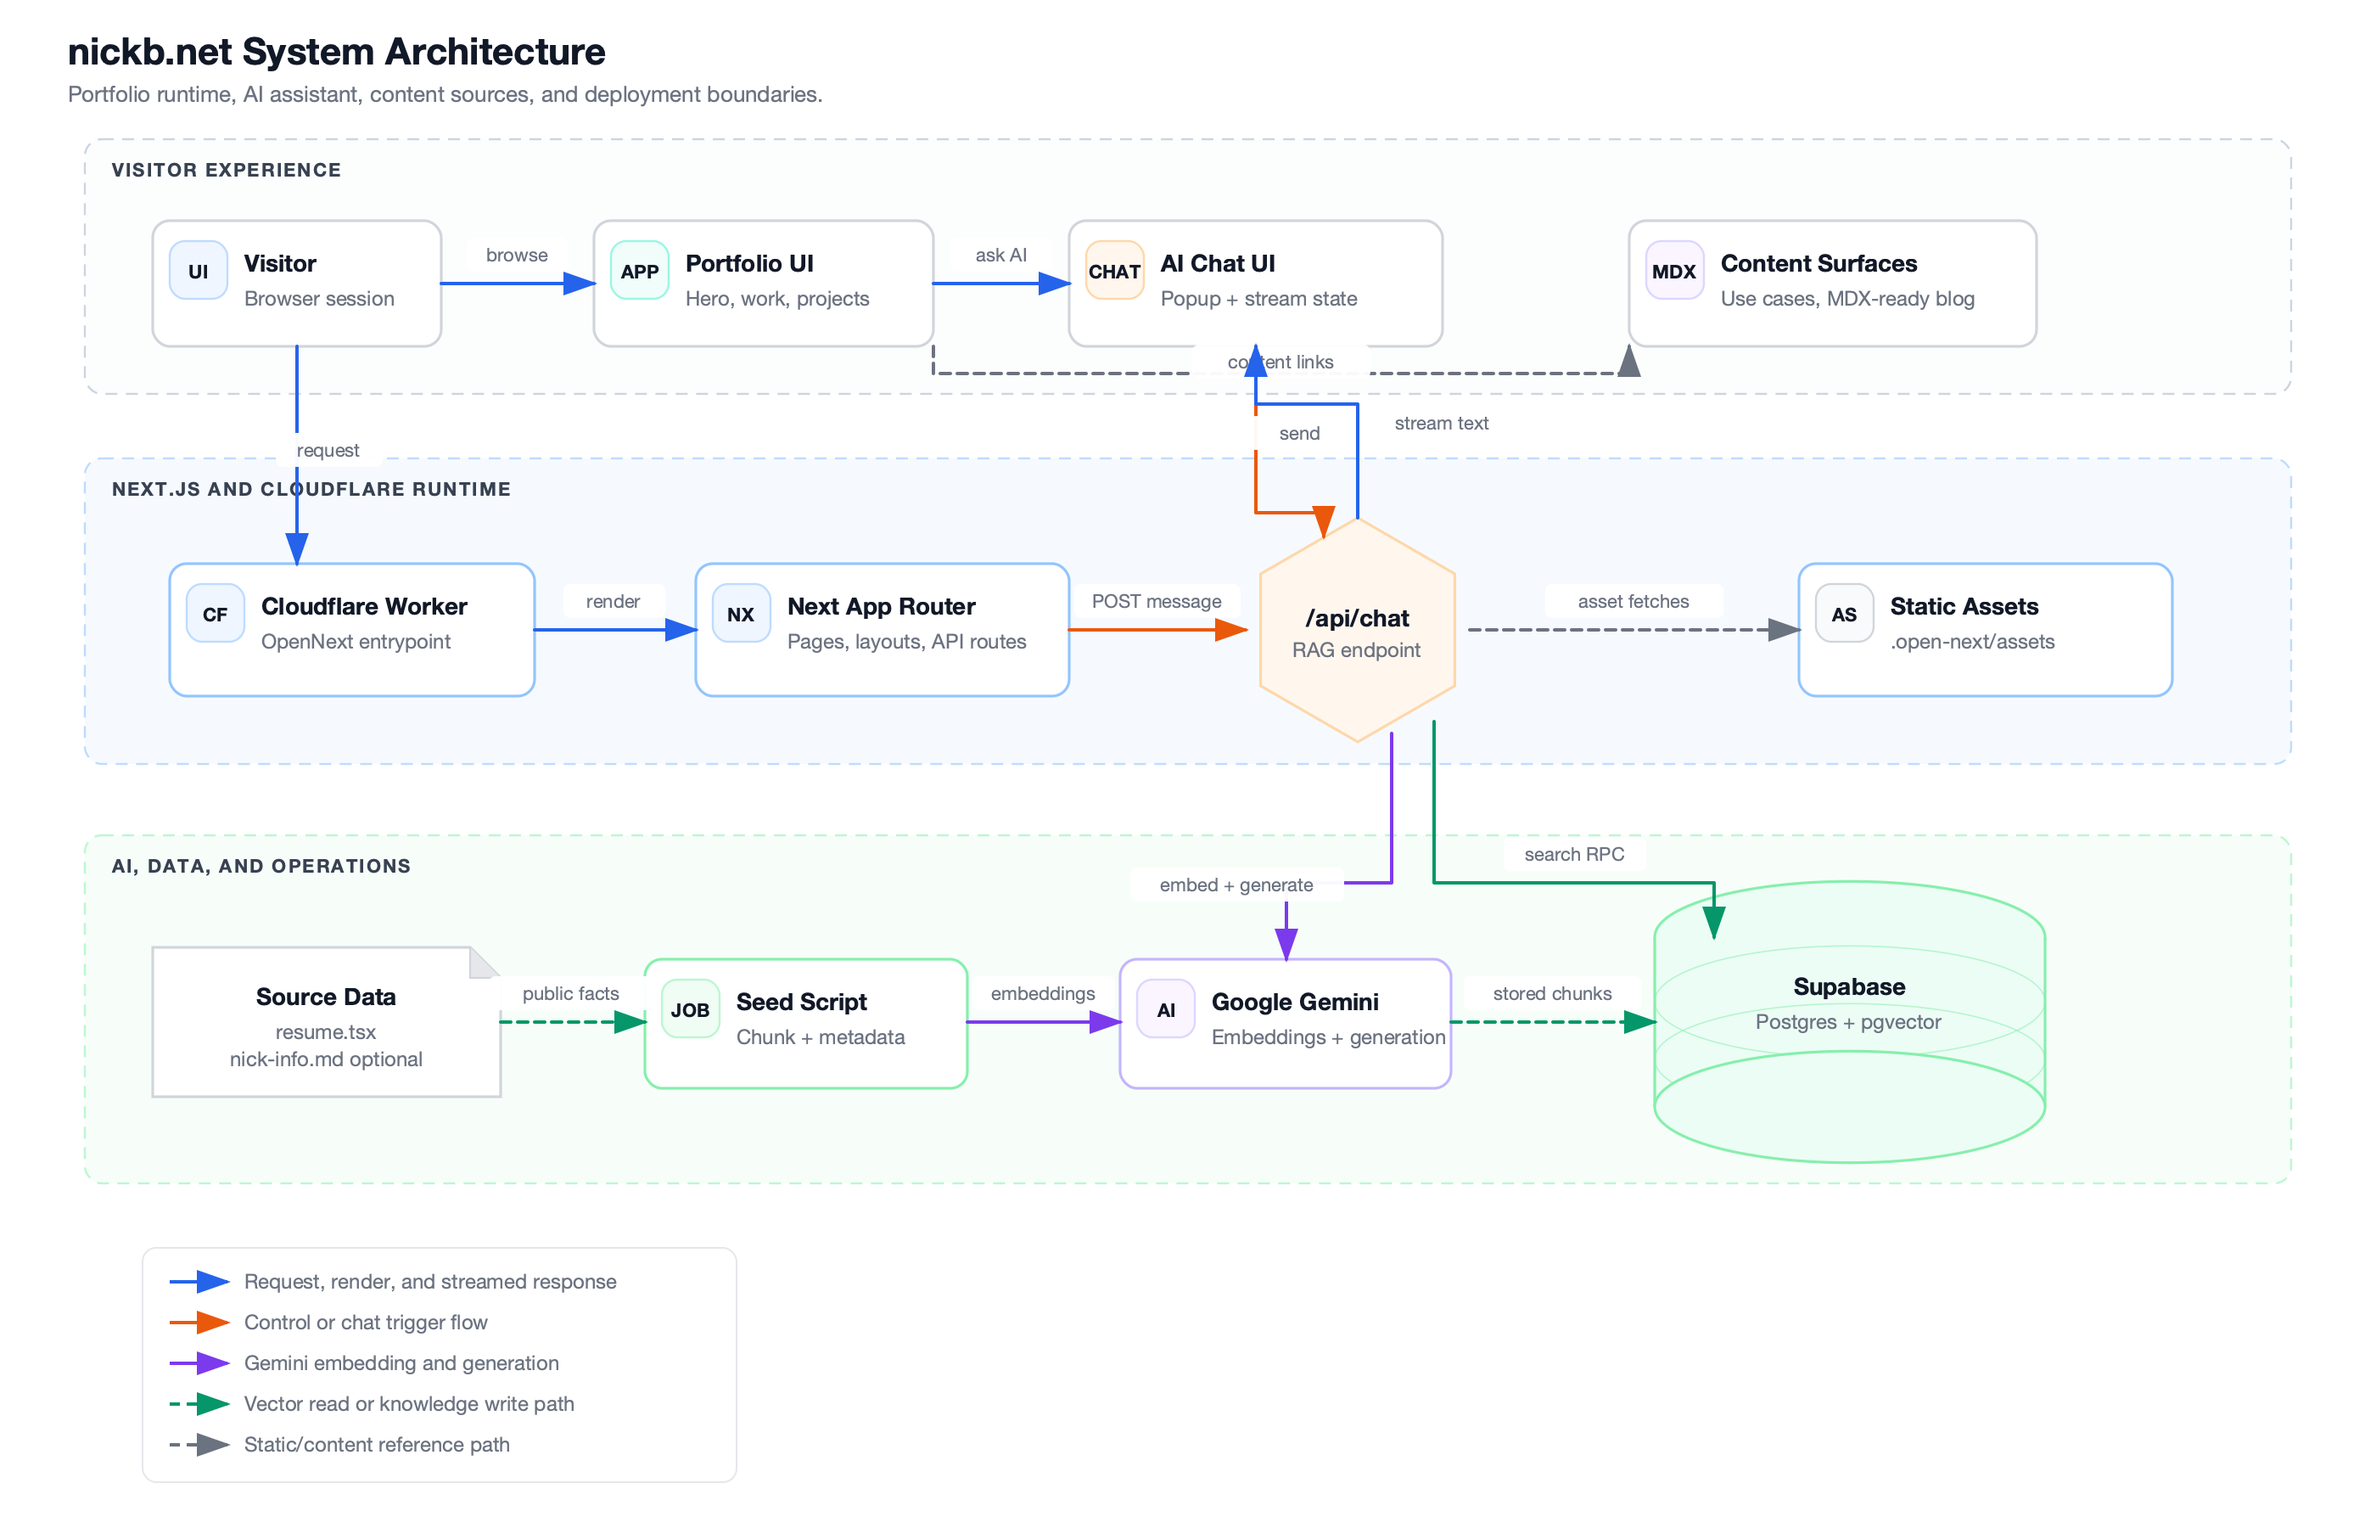
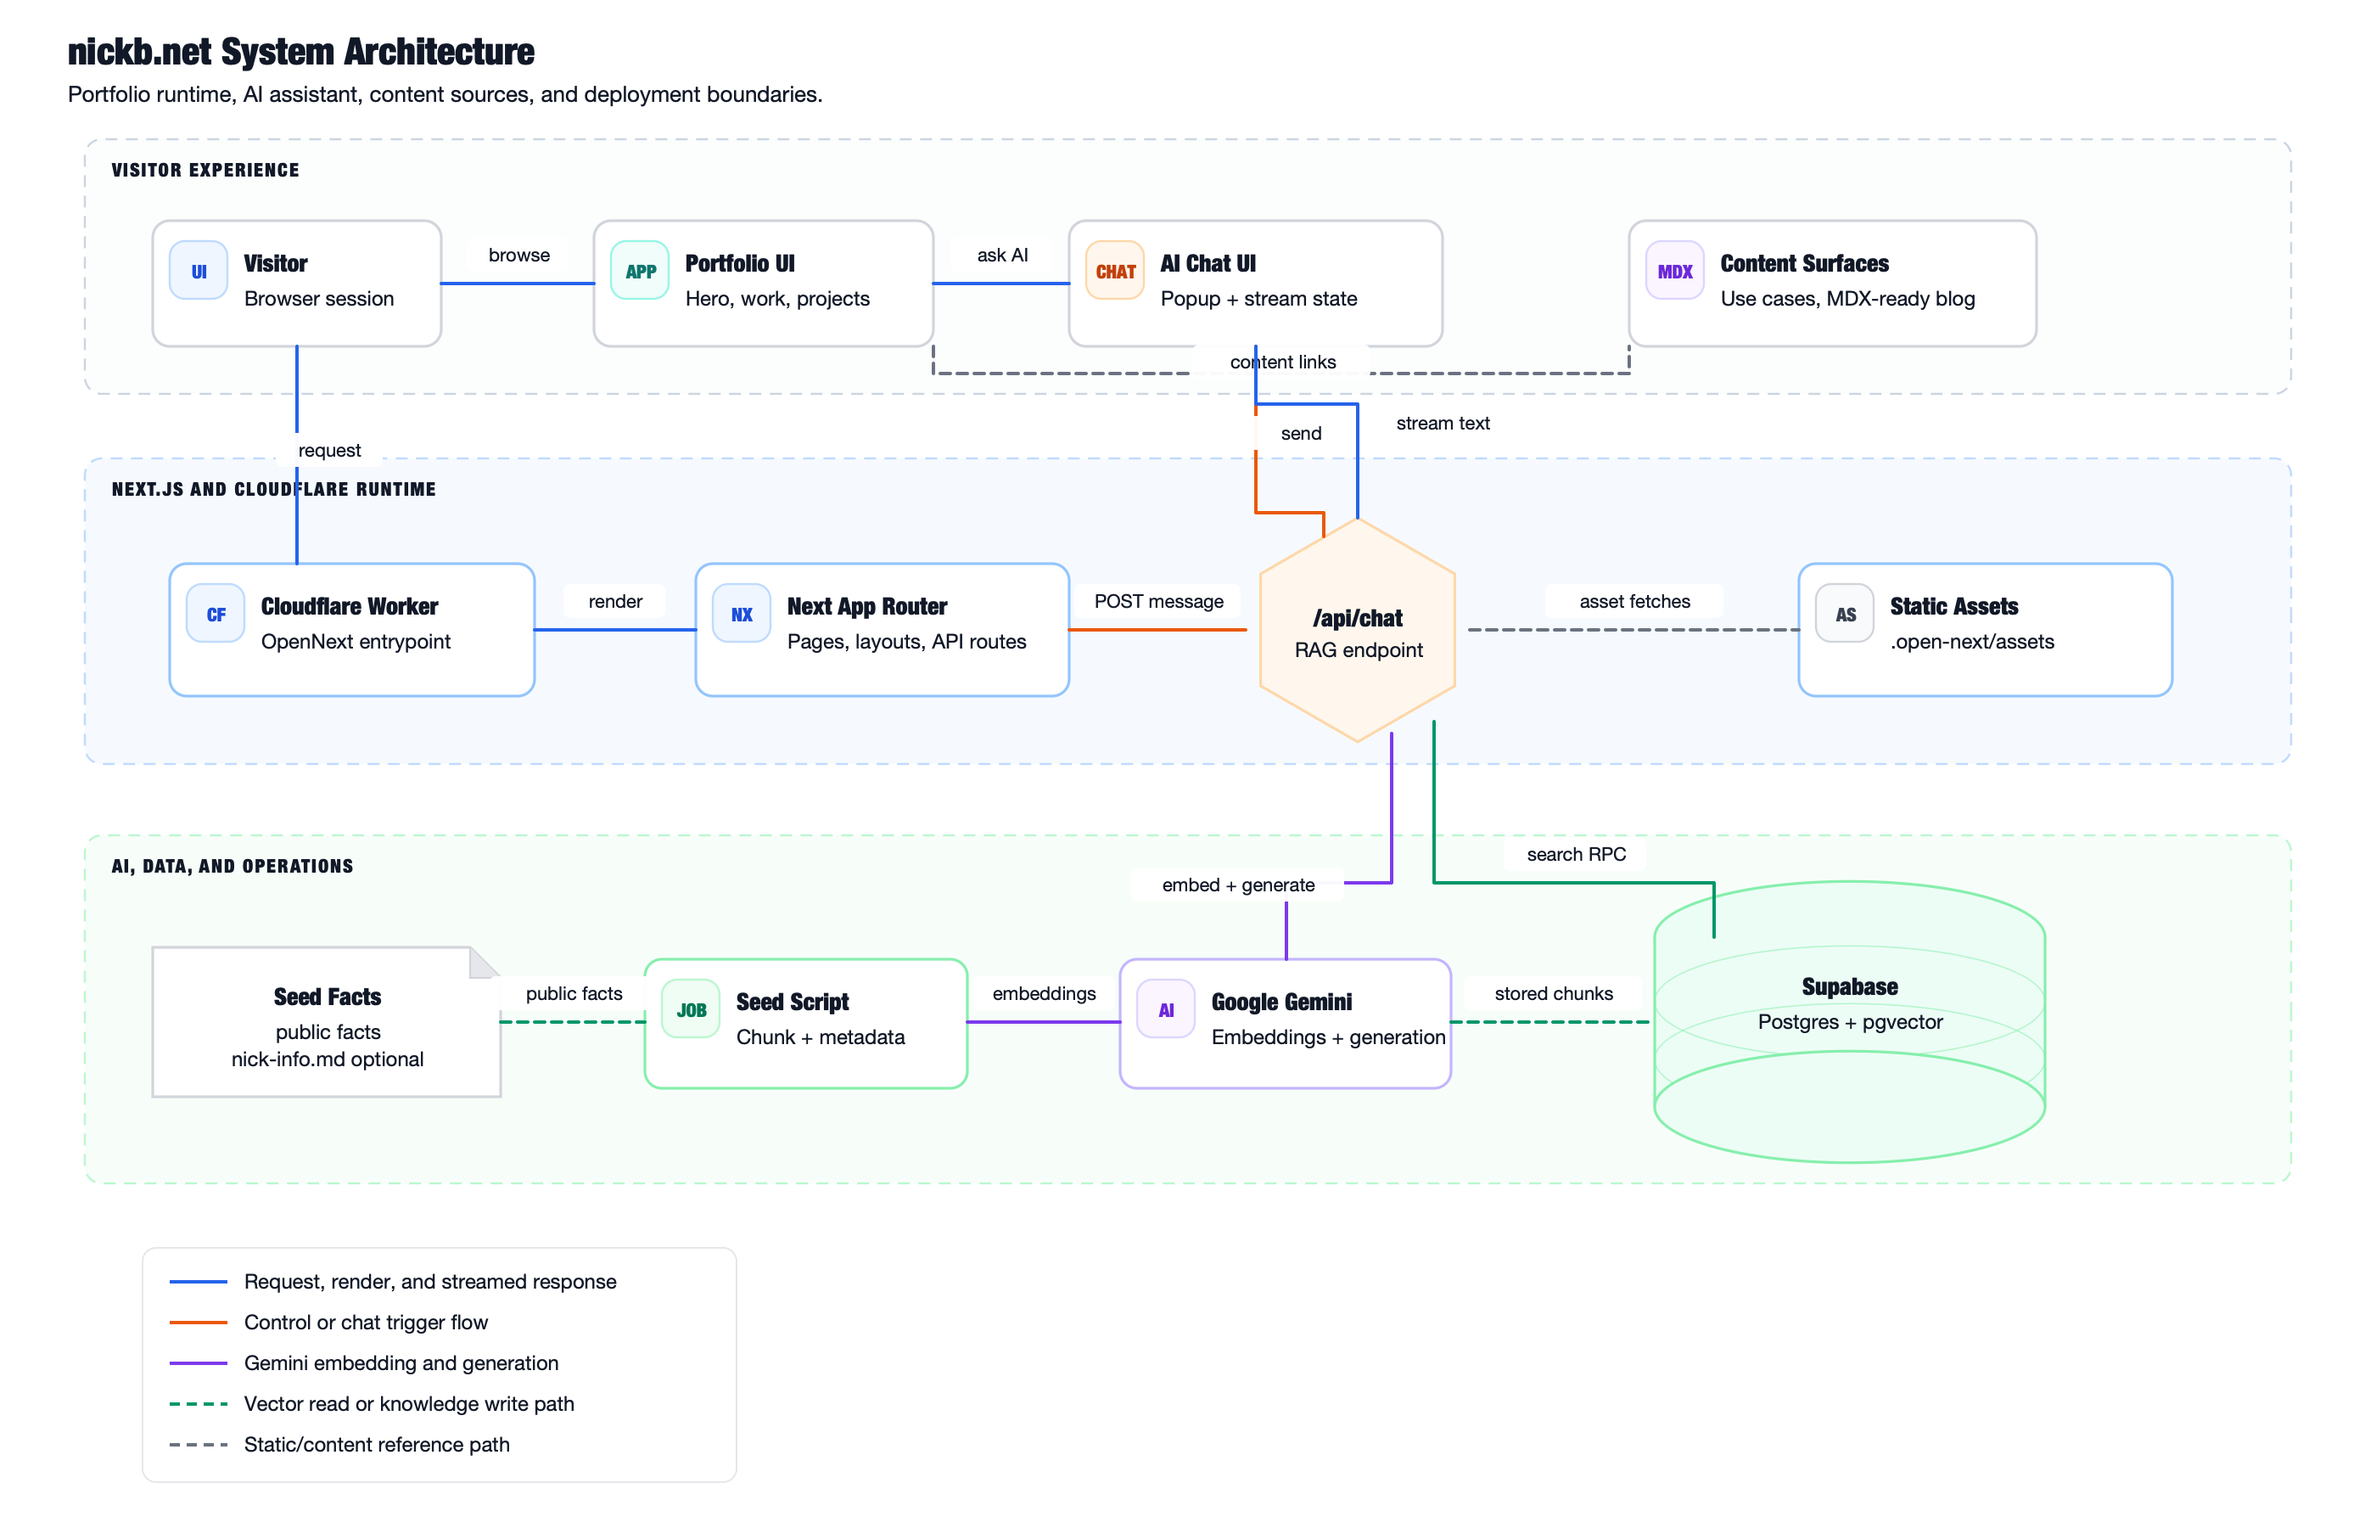
docs: correct seed source diagram labels

diff --git a/tests/architecture-docs.test.js b/tests/architecture-docs.test.js
@@ -49,3 +49,30 @@ test("architecture docs describe the current Gemini embedding dimension and sche
     "AI chat RAG diagram should not render the obsolete vector size"
   );
 });
+
+test("architecture diagrams describe seed source facts without resume.tsx drift", () => {
+  const systemArchitectureSvg = readRepoFile("docs/assets/system-architecture.svg");
+  const ragFlowSvg = readRepoFile("docs/assets/ai-chat-rag-flow.svg");
+
+  for (const [diagramName, svg] of [
+    ["system architecture", systemArchitectureSvg],
+    ["AI chat RAG flow", ragFlowSvg],
+  ]) {
+    assert.doesNotMatch(
+      svg,
+      /resume\.tsx/,
+      `${diagramName} diagram should not imply the seed job reads resume.tsx`
+    );
+  }
+
+  assert.match(
+    systemArchitectureSvg,
+    />Seed Facts<\/text>\s*<text[^>]*>public facts<\/text>\s*<text[^>]*>nick-info\.md optional<\/text>/,
+    "system architecture diagram should label seed inputs as public facts plus optional notes"
+  );
+  assert.match(
+    ragFlowSvg,
+    />Seed Facts<\/text>\s*<text[^>]*>public facts \+ optional notes<\/text>/,
+    "AI chat RAG diagram should label seed inputs as public facts plus optional notes"
+  );
+});
